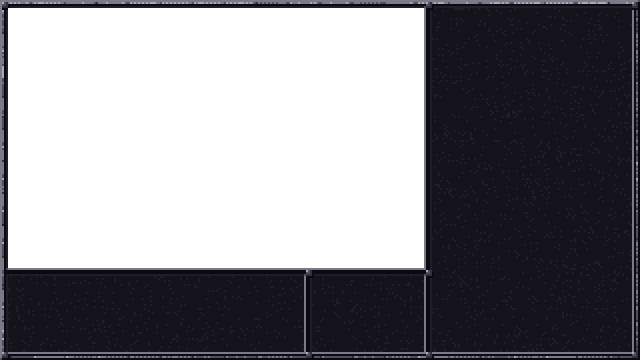
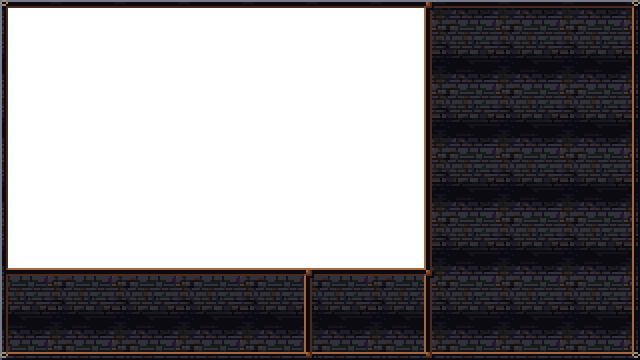
UI art pass: PixelLab title screen as the menu backdrop, blackened-brick panel wells, rusted-iron lips/arrows/slots, corner skulls; Options fits the screen

Changed region(s): [[0.0, 0.0, 1.0, 1.0]]

diff --git a/tools/art/gen_frame.py b/tools/art/gen_frame.py
@@ -20,6 +20,8 @@ The masonry uses the same recipe as the wall tile (tools/art/gen_tiles.py): a br
 a height map lit from the top-left, noise tints, dithered onto the stone ramp. Windows are
 recessed: their top and left lips are in shadow, their bottom and right lips catch the light.
 """
+from pathlib import Path
+
 from PIL import Image, ImageDraw
 
 from artio import save_png
@@ -48,8 +50,29 @@ def clamp01(v):
 # Masonry
 # --------------------------------------------------------------------------
 
+PIECES = Path(__file__).parent / "pieces"
+
+
+def pixellab_masonry():
+    """The frame's stone: a 32x32 tile of blackened brick made with PixelLab (tools/art/pieces/frame_stone.png,
+    a source piece kept here and not in art/ because gen_frame composes it) tiled across the screen at
+    logical size, snapped to the palette. None if the piece is missing (the procedural wall is used)."""
+    path = PIECES / "frame_stone.png"
+    if not path.exists():
+        return None
+    tile = Image.open(path).convert("RGBA")
+    img = Image.new("RGBA", (W, H))
+    for y in range(0, H, tile.height):
+        for x in range(0, W, tile.width):
+            img.paste(tile, (x, y))
+    return PAL.snap(img)
+
+
 def masonry(seed=11, bw=16, bh=8):
-    """A screen-sized brick wall, lit from the top-left."""
+    """A screen-sized brick wall, lit from the top-left (the PixelLab tile when there is one)."""
+    piece = pixellab_masonry()
+    if piece is not None:
+        return piece
     def layout(x, y):
         row = y // bh
         sx = x + (bw // 2 if row % 2 else 0)
@@ -105,30 +128,40 @@ def recess(img, rect, fill):
                 top_left = x < rx or y < ry
                 bottom_right = x >= rx + rw or y >= ry + rh
                 if top_left and not bottom_right:
-                    px[x, y] = (*PAL["stone_800"], 255)
+                    px[x, y] = (*PAL["rust_700"], 255)   # The lips are rusted iron: shaded top and left...
                 elif bottom_right and not top_left:
-                    px[x, y] = (*PAL["stone_300"], 255)
+                    px[x, y] = (*PAL["rust_300"], 255)   # ...lit bottom and right.
                 else:
-                    px[x, y] = (*PAL["stone_500"], 255)  # The corners where the two lips meet.
+                    px[x, y] = (*PAL["rust_500"], 255)   # The corners where the two lips meet.
 
 
 def dark_panel(seed):
-    """A recessed panel's floor: stone_900 with a sparse stone_800 grain."""
+    """A recessed panel's floor: the PixelLab blackened brick when there is one (so text and bars stand out on
+    it: it is near-black), else stone_900 with a sparse stone_800 grain."""
+    piece = pixellab_masonry()
+    if piece is not None:
+        ppx = piece.load()
+
+        def brick(x, y):
+            r, g, b, _a = ppx[x % W, y % H]
+            return (r, g, b)
+        return brick
+
     def fill(x, y):
         return PAL["stone_800"] if hash01(seed, x, y) > 0.93 else PAL["stone_900"]
     return fill
 
 
 def rivet(img, cx, cy):
-    """A 3x3 iron stud: lit top-left, shaded bottom-right."""
+    """A 3x3 rusted iron stud: lit top-left, shaded bottom-right."""
     px = img.load()
     for dy in (-1, 0, 1):
         for dx in (-1, 0, 1):
-            c = PAL["stone_500"]
+            c = PAL["rust_500"]
             if dx == -1 and dy == -1:
-                c = PAL["stone_100"]
+                c = PAL["rust_300"]
             elif dx == 1 or dy == 1:
-                c = PAL["stone_700"]
+                c = PAL["rust_700"]
             px[cx + dx, cy + dy] = (*c, 255)
     for dx, dy in ((2, 0), (2, 1), (2, 2), (0, 2), (1, 2), (-1, 2)):  # A short drop shadow.
         x, y = cx + dx, cy + dy
@@ -149,6 +182,24 @@ def outer_bevel(img):
     px[0, H - 1] = (*PAL["stone_500"], 255)
 
 
+SKULL = (  # 4x4: a small skull set into each corner of the screen (. empty, b bone, k ink).
+    ".bb.",
+    "bkkb",
+    ".bb.",
+    ".kk.",
+)
+
+
+def skull(img, x0, y0):
+    px = img.load()
+    for dy, row in enumerate(SKULL):
+        for dx, ch in enumerate(row):
+            if ch == "b":
+                px[x0 + dx, y0 + dy] = (*PAL["bone_500"], 255)
+            elif ch == "k":
+                px[x0 + dx, y0 + dy] = (*INK, 255)
+
+
 def frame():
     img = masonry()
     recess(img, ARROWS, dark_panel(1))
@@ -159,7 +210,11 @@ def frame():
     # Studs on the corners and the T-junctions of the dividers.
     for cx, cy in ((2, 2), (W - 3, 2), (2, H - 3), (W - 3, H - 3), (214, 2), (214, H - 3),
                    (214, 136), (154, 136), (154, H - 3)):
+        if (cx, cy) in ((2, 2), (W - 3, 2), (2, H - 3), (W - 3, H - 3)):
+            continue  # The four screen corners get a skull instead (below).
         rivet(img, cx, cy)
+    for x0, y0 in ((0, 0), (W - 4, 0), (0, H - 4), (W - 4, H - 4)):
+        skull(img, x0, y0)  # (All inside the 4 px frame: the 3D view's window stays exactly VIEW.)
     return img
 
 
@@ -189,20 +244,20 @@ def arrow_mask(kind):
 def arrow_button(kind, pressed):
     img = Image.new("RGBA", (SIZE, SIZE), (0, 0, 0, 0))
     px = img.load()
-    body = PAL["stone_800"] if pressed else PAL["stone_700"]
+    body = PAL["stone_900"] if pressed else PAL["stone_800"]  # Blackened stone...
     for y in range(SIZE):
         for x in range(SIZE):
             px[x, y] = (*body, 255)
-    # Bevel: raised when up (lit top-left), sunk when pressed.
-    hi, lo = PAL["stone_300"], PAL["stone_900"]
+    # Bevel: raised when up (lit top-left), sunk when pressed. Rusted iron edges.
+    hi, lo = PAL["rust_500"], PAL["ink"]
     top_left, bottom_right = (lo, hi) if pressed else (hi, lo)
     for i in range(SIZE):
         px[i, 0] = (*top_left, 255)
         px[0, i] = (*top_left, 255)
         px[i, SIZE - 1] = (*bottom_right, 255)
         px[SIZE - 1, i] = (*bottom_right, 255)
-    px[SIZE - 1, 0] = (*PAL["stone_500"], 255)
-    px[0, SIZE - 1] = (*PAL["stone_500"], 255)
+    px[SIZE - 1, 0] = (*PAL["rust_700"], 255)
+    px[0, SIZE - 1] = (*PAL["rust_700"], 255)
     # The glyph: bone-coloured with an ink drop shadow, nudged down-right when pressed.
     mask = arrow_mask(kind)
     mp = mask.load()

diff --git a/tools/art/gen_title.py b/tools/art/gen_title.py
@@ -1,0 +1,33 @@
+"""The title screen: art/ui/title.png, 640x360 (320x180 logical pixels drawn at 2x, the same chunky pixels as
+the rest of the UI).
+
+The picture is a PixelLab image (the entrance to a cursed dungeon at night: a ruined archway with a sickly green
+glow, dead twisted trees, fog, a dark band of sky at the top left clear for the logo). The source piece is
+tools/art/pieces/title.png (320x180); this snaps it to the palette and enlarges it. With no piece, a plain
+dark gradient is written so the game still has a title background.
+"""
+from pathlib import Path
+
+from PIL import Image
+
+from artio import save_png
+from palette import PAL
+
+PIECE = Path(__file__).parent / "pieces" / "title.png"
+W, H = 320, 180
+
+
+def title():
+    if PIECE.exists():
+        return PAL.snap(Image.open(PIECE).convert("RGBA").resize((W, H), Image.NEAREST))
+    img = Image.new("RGBA", (W, H))
+    px = img.load()
+    ramp = [PAL["ink"], PAL["stone_900"], PAL["stone_800"]]
+    for y in range(H):
+        for x in range(W):
+            px[x, y] = (*ramp[min(2, y * 3 // H)], 255)
+    return img
+
+
+def build(scale=2):
+    return [save_png(title(), "ui/title.png", scale=scale)]

diff --git a/tools/art/gen_ui.py b/tools/art/gen_ui.py
@@ -142,15 +142,15 @@ def quickslot_frame(filled):
                 continue
             if filled:
                 if (x, y) == (0, 0):
-                    colour = PAL["stone_500"]
+                    colour = PAL["rust_300"]
                 elif (x, y) == (last, last):
-                    colour = PAL["stone_700"]
+                    colour = PAL["rust_700"]
                 elif edge_x and edge_y:
-                    colour = PAL["stone_700"]
+                    colour = PAL["rust_700"]
                 elif y == 0 or x == 0:
-                    colour = PAL["stone_500"]   # Lit edges.
+                    colour = PAL["rust_500"]    # Lit edges: rusted iron.
                 else:
-                    colour = PAL["stone_700"]   # Shaded edges.
+                    colour = PAL["rust_700"]    # Shaded edges.
             else:
                 if edge_x and edge_y:
                     continue                    # Cut corners.

diff --git a/CLAUDE.md b/CLAUDE.md
@@ -69,7 +69,7 @@ Nothing is checked in for the game itself. The working approach has been throwaw
 
 **Scene tree** (`scenes/main.tscn`): `Dungeon` (builder; creates all meshes/sprites/lights in code), `Player` (with `Camera3D` and a torch light), `Party`, plus self-contained overlays `DebugOverlay` (Tab: a small translucent 11x9-cell minimap that follows the player, top-right of the 3D view, plus `x,z facing`; `minimap.gd`), `Hud`, `PartyHud`, `LevelComplete`, `GameOver`.
 
-**Other top-level scenes:** `scenes/main_menu.tscn` is the **startup scene** (`run/main_scene`; F5 in the editor opens the menu, press New Game or run `main.tscn` directly with F6) and is also reached from Game over's "Quit to Menu" via `get_tree().change_scene_to_file()`, not as a child of `main.tscn`. It is a `Node3D`: its background is the game's own level -- the same `dungeon_builder.gd` with `populate = false` (architecture, torches and lever only, no items or monsters), the same textures, a camera at cell (6,13) looking east down the long corridor (`VIEW_CELL` in `main_menu.gd`: update it if the level changes) with a flickering camera torch and a slow drift, rendered in a 640x360 viewport at 1x -- with the UI on a `CanvasLayer` over it. Buttons: New Game, Load Game (greyed out without a save; `SaveGame.load_game`), Options, Quit. **Options** has three volume rows, Master / Music / Effects (see **Audio**), each 0-100% in 10% steps via -/+ buttons or the left/right arrows on the focused row, a `SCREEN: FULLSCREEN / WINDOWED` button (see **Display modes**) and a `FOG: ON / OFF` button (see **Spell lighting**); all saved to `user://settings.cfg`; a change plays a click so it can be heard. The menu applies the saved volume at startup, so launching `main.tscn` directly runs at full volume. The font is **Press Start 2P** (SIL OFL, `art/fonts/`, licence in `OFL.txt`; keep it with the font): use sizes that are multiples of 8 (title 16, text 8) and keep its `.import` settings `antialiasing=0`, `hinting=0`, `subpixel_positioning=0` or the pixels blur. The title's drop shadow is `rust_700` at 2,2 with a 2px `ink` outline; every UI colour is a palette colour (hard-coded as palette-named consts in `main_menu.gd`, as in the HUD).
+**Other top-level scenes:** `scenes/main_menu.tscn` is the **startup scene** (`run/main_scene`; F5 in the editor opens the menu, press New Game or run `main.tscn` directly with F6) and is also reached from Game over's "Quit to Menu" via `get_tree().change_scene_to_file()`, not as a child of `main.tscn`. It is a `Node3D`: its background is the **title screen picture** `art/ui/title.png` (a PixelLab image, 320x180 drawn at 2x: a ruined archway at night with a sickly green glow, dead trees and fog, a dark band at the top for the logo; `TitleArt`, added in `_show_title_art`), and the 3D corridor below, kept as a fallback, is hidden and not rendering. That corridor is the game's own level -- the same `dungeon_builder.gd` with `populate = false` (architecture, torches and lever only, no items or monsters), the same textures, a camera at cell (6,13) looking east down the long corridor (`VIEW_CELL` in `main_menu.gd`: update it if the level changes) with a flickering camera torch and a slow drift, rendered in a 640x360 viewport at 1x -- with the UI on a `CanvasLayer` over it. Buttons: New Game, Load Game (greyed out without a save; `SaveGame.load_game`), Options, Quit. **Options** has three volume rows, Master / Music / Effects (see **Audio**), each 0-100% in 10% steps via -/+ buttons or the left/right arrows on the focused row, a `SCREEN: FULLSCREEN / WINDOWED` button (see **Display modes**) and a `FOG: ON / OFF` button (see **Spell lighting**); all saved to `user://settings.cfg`; a change plays a click so it can be heard. The menu applies the saved volume at startup, so launching `main.tscn` directly runs at full volume. The font is **Press Start 2P** (SIL OFL, `art/fonts/`, licence in `OFL.txt`; keep it with the font): use sizes that are multiples of 8 (title 16, text 8) and keep its `.import` settings `antialiasing=0`, `hinting=0`, `subpixel_positioning=0` or the pixels blur. The title's drop shadow is `rust_700` at 2,2 with a 2px `ink` outline; every UI colour is a palette colour (hard-coded as palette-named consts in `main_menu.gd`, as in the HUD).
 
 **Decoupling is by node groups.** The player never holds references to the world; it calls `get_tree().call_group(...)`:
 - `"dungeon"` (builder): `open_door`, `pull_lever`, `refresh` via `call_group`; `item_at`/`take_item`/`place_item` need a return value, so callers fetch the node directly instead (`get_tree().get_first_node_in_group("dungeon")`)
@@ -120,6 +120,8 @@ So the overlay, HUD and level-complete scenes can be deleted from `main.tscn` wi
 **Scroll of Resurrection** (`data/items/scroll_resurrection.tres`; rules in the combat blueprint's "Scroll of Resurrection" section; `ItemDef.revive_percent` 50 and `shaken_seconds` 20, so a scroll is data): `Party.revive(slot, def)` raises a hero at 0 HP with that share of max HP (rounded up, min 1) and no mana, keeping gear, quick slots and position (a living hero, or nobody fallen: "The scroll needs the fallen.", nothing spent); a divine caster (`CharacterDef.magic` DIVINE, the Cleric) returns with FULL HP but `Member.shaken_left` seconds of being shaken: no mana regeneration (`Party._process`), and `cast_refusal`/`cast` say "[Name] is too shaken to pray.", then "[Name]'s faith steadies." (death clears it; saved as `shaken` per hero, an older save has none). Three ways to read it: **on the cursor** (`party_hud._on_portrait`, or the inventory's portrait strip, `inventory_slot._click_portrait`, for a dead member; a living portrait keeps it), **from a quick slot** (`use_quick` emits `revive_requested`, the HUD enters `revive_pending` target mode, "Raise whom?", with the catcher up so Esc / right-click / `cancel_casting` cancels, and `revive_from_quick` spends it), and `use_item` (inventory right-click) only explains. The caller takes one scroll away when `used`. Feedback (HUD and `spell_effects.holy_pulse(scale)`, tunables in the "Resurrection" group of `data/spell_effects.tres`): the icon burns away in additive gold where it was read, a pixel-art gold column rises over the portrait (`_revive_column_texture`, wider, taller and brighter for a Cleric) with motes, the 3D gold pulse is stronger for a Cleric and dims curse glows, and a shaken Cleric's portrait carries a dimmed holy symbol; `Settings.reduce_flashing` makes the column dimmer and steadier with no motes. Floor 1 holds two (the secret closet behind the cracked wall and the locked closet). Do not run `import_pixellab.py` with stale files in `tools/art/inbox/`: it re-imports them over the current art.
 
 **Discoverability of the character sheet** (`party_hud.gd`, `inventory_screen.gd`, `settings.gd`): every clickable part of a party panel gets the same treatment (`_make_hoverable`: a pointing-hand cursor and a slight brighten of `self_modulate`, which nothing else uses; portraits, hands, quick slots and the name's scroll icon), and the hero's **name** also turns torch gold with a 2 px underline and the tooltip "Character sheet (C)". A small rolled-scroll button (`art/ui/name_scroll.png`, `gen_ui.name_scroll`, 16x16 drawn overhanging its 12 px row so the panel stays 170 px tall; `layout_test` checks it) beside each name opens the sheet too. **Keys:** C opens the sheet for the hero whose panel the mouse is over, else the one last looked at (`InventoryScreen.focused_slot`), and closes the sheet when it shows; Shift+1 to Shift+4 open the hero in that position directly (`inventory_screen._unhandled_input`, ignored while another screen owns the pause; `player.gd` skips the 1-8 quick-slot keys while Shift is held). **First-time hint** (`party_hud._first_time_hint`): the first time a party panel appears in a new game (not a loaded one) the four names pulse twice and the log says "Click a name to see their character sheet."; remembered in `user://settings.cfg` (`Settings.hint_seen/mark_hint`, section `hints_seen`), switched off by `Settings.show_hints` (Options: `HINTS: ON/OFF`). There is no banter system yet, so the Mage's "You can click my name" line from the brief is not implemented.
+
+**UI art style** (the PixelLab UI pass): `tools/art/pieces/` holds PixelLab source pieces that generators compose (not game art, so the importer never sees them): `frame_stone.png` (a 32x32 blackened-brick tile, used as the background of the log, arrows and party wells in `gen_frame.pixellab_masonry` / `dark_panel`) and `title.png` (`gen_title.py` snaps it to the palette and enlarges it 2x). **The frame has no visible masonry**: its four windows sit 4 logical px apart, so the stone between them is all window lips; the lips are rusted iron (`rust_700` shaded, `rust_300` lit), the studs are rust, and a 4x4 bone skull sits in each screen corner (inside the 4 px margin, so the 3D view's hole stays exactly `VIEW`). A thicker stone frame with chains and large corner ornaments would need a smaller view or smaller party panels. The arrows (blackened stone, rusted iron bevel) and filled quick slots (rusted iron bevel) were restyled by script because PixelLab's 32x32 minimum is bigger than these 8 to 16 logical px pieces. Options is laid out in two columns on a dark panel (`_arrange_options`); the switches read `FLASHING: REDUCED / NORMAL`.
 
 **Pause menu** (`pause_menu.gd`, node `PauseMenu` in `main.tscn`, group `"pause_menu"`, canvas layer 19, built in code): Escape in play opens it and pauses; Escape or Resume closes it. Buttons: Resume, Save Game, Load Game (greyed with no save), Quit to Menu, Quit to Desktop. It saves through `SaveGame.save` directly (the F5/K refusal while paused lives in `SaveManager`, not `SaveGame`). Escape is used first by whatever is open: the inventory (`inventory_screen.gd` now marks it handled), the spell pop-up / target mode and formation drag (`party_hud.gd`); and the menu never opens when the tree is already paused (inventory, Level complete, Game over).
 
